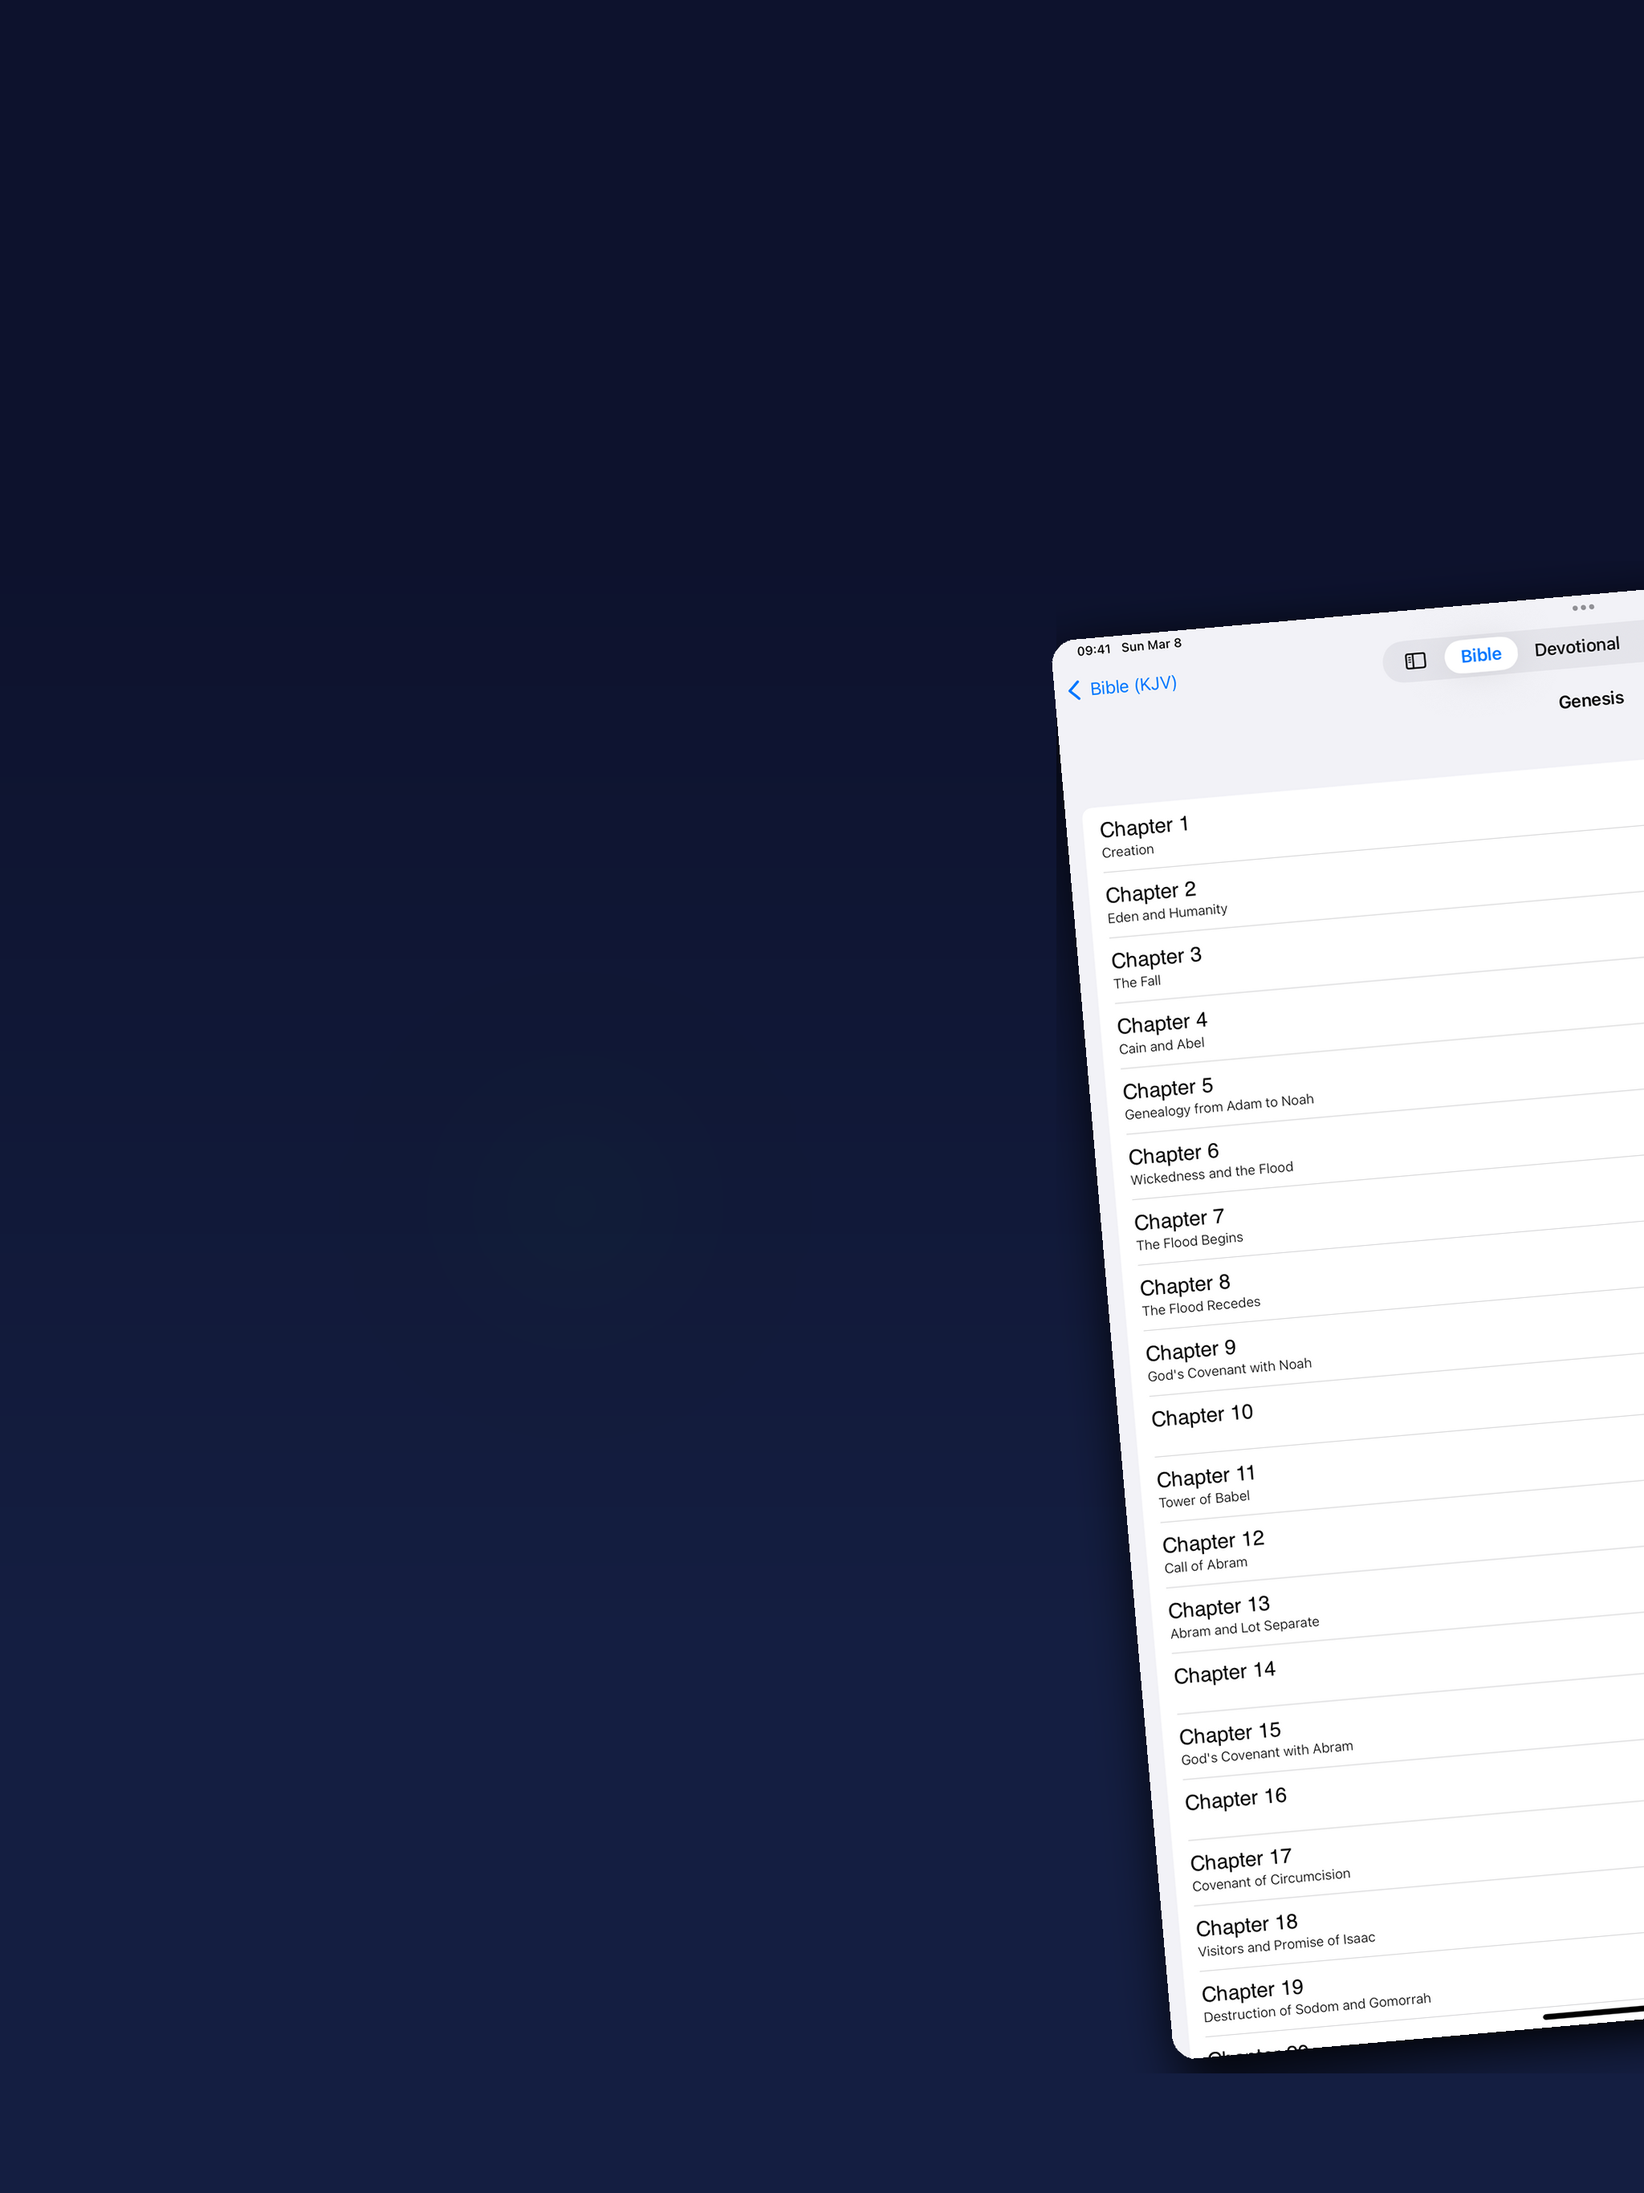
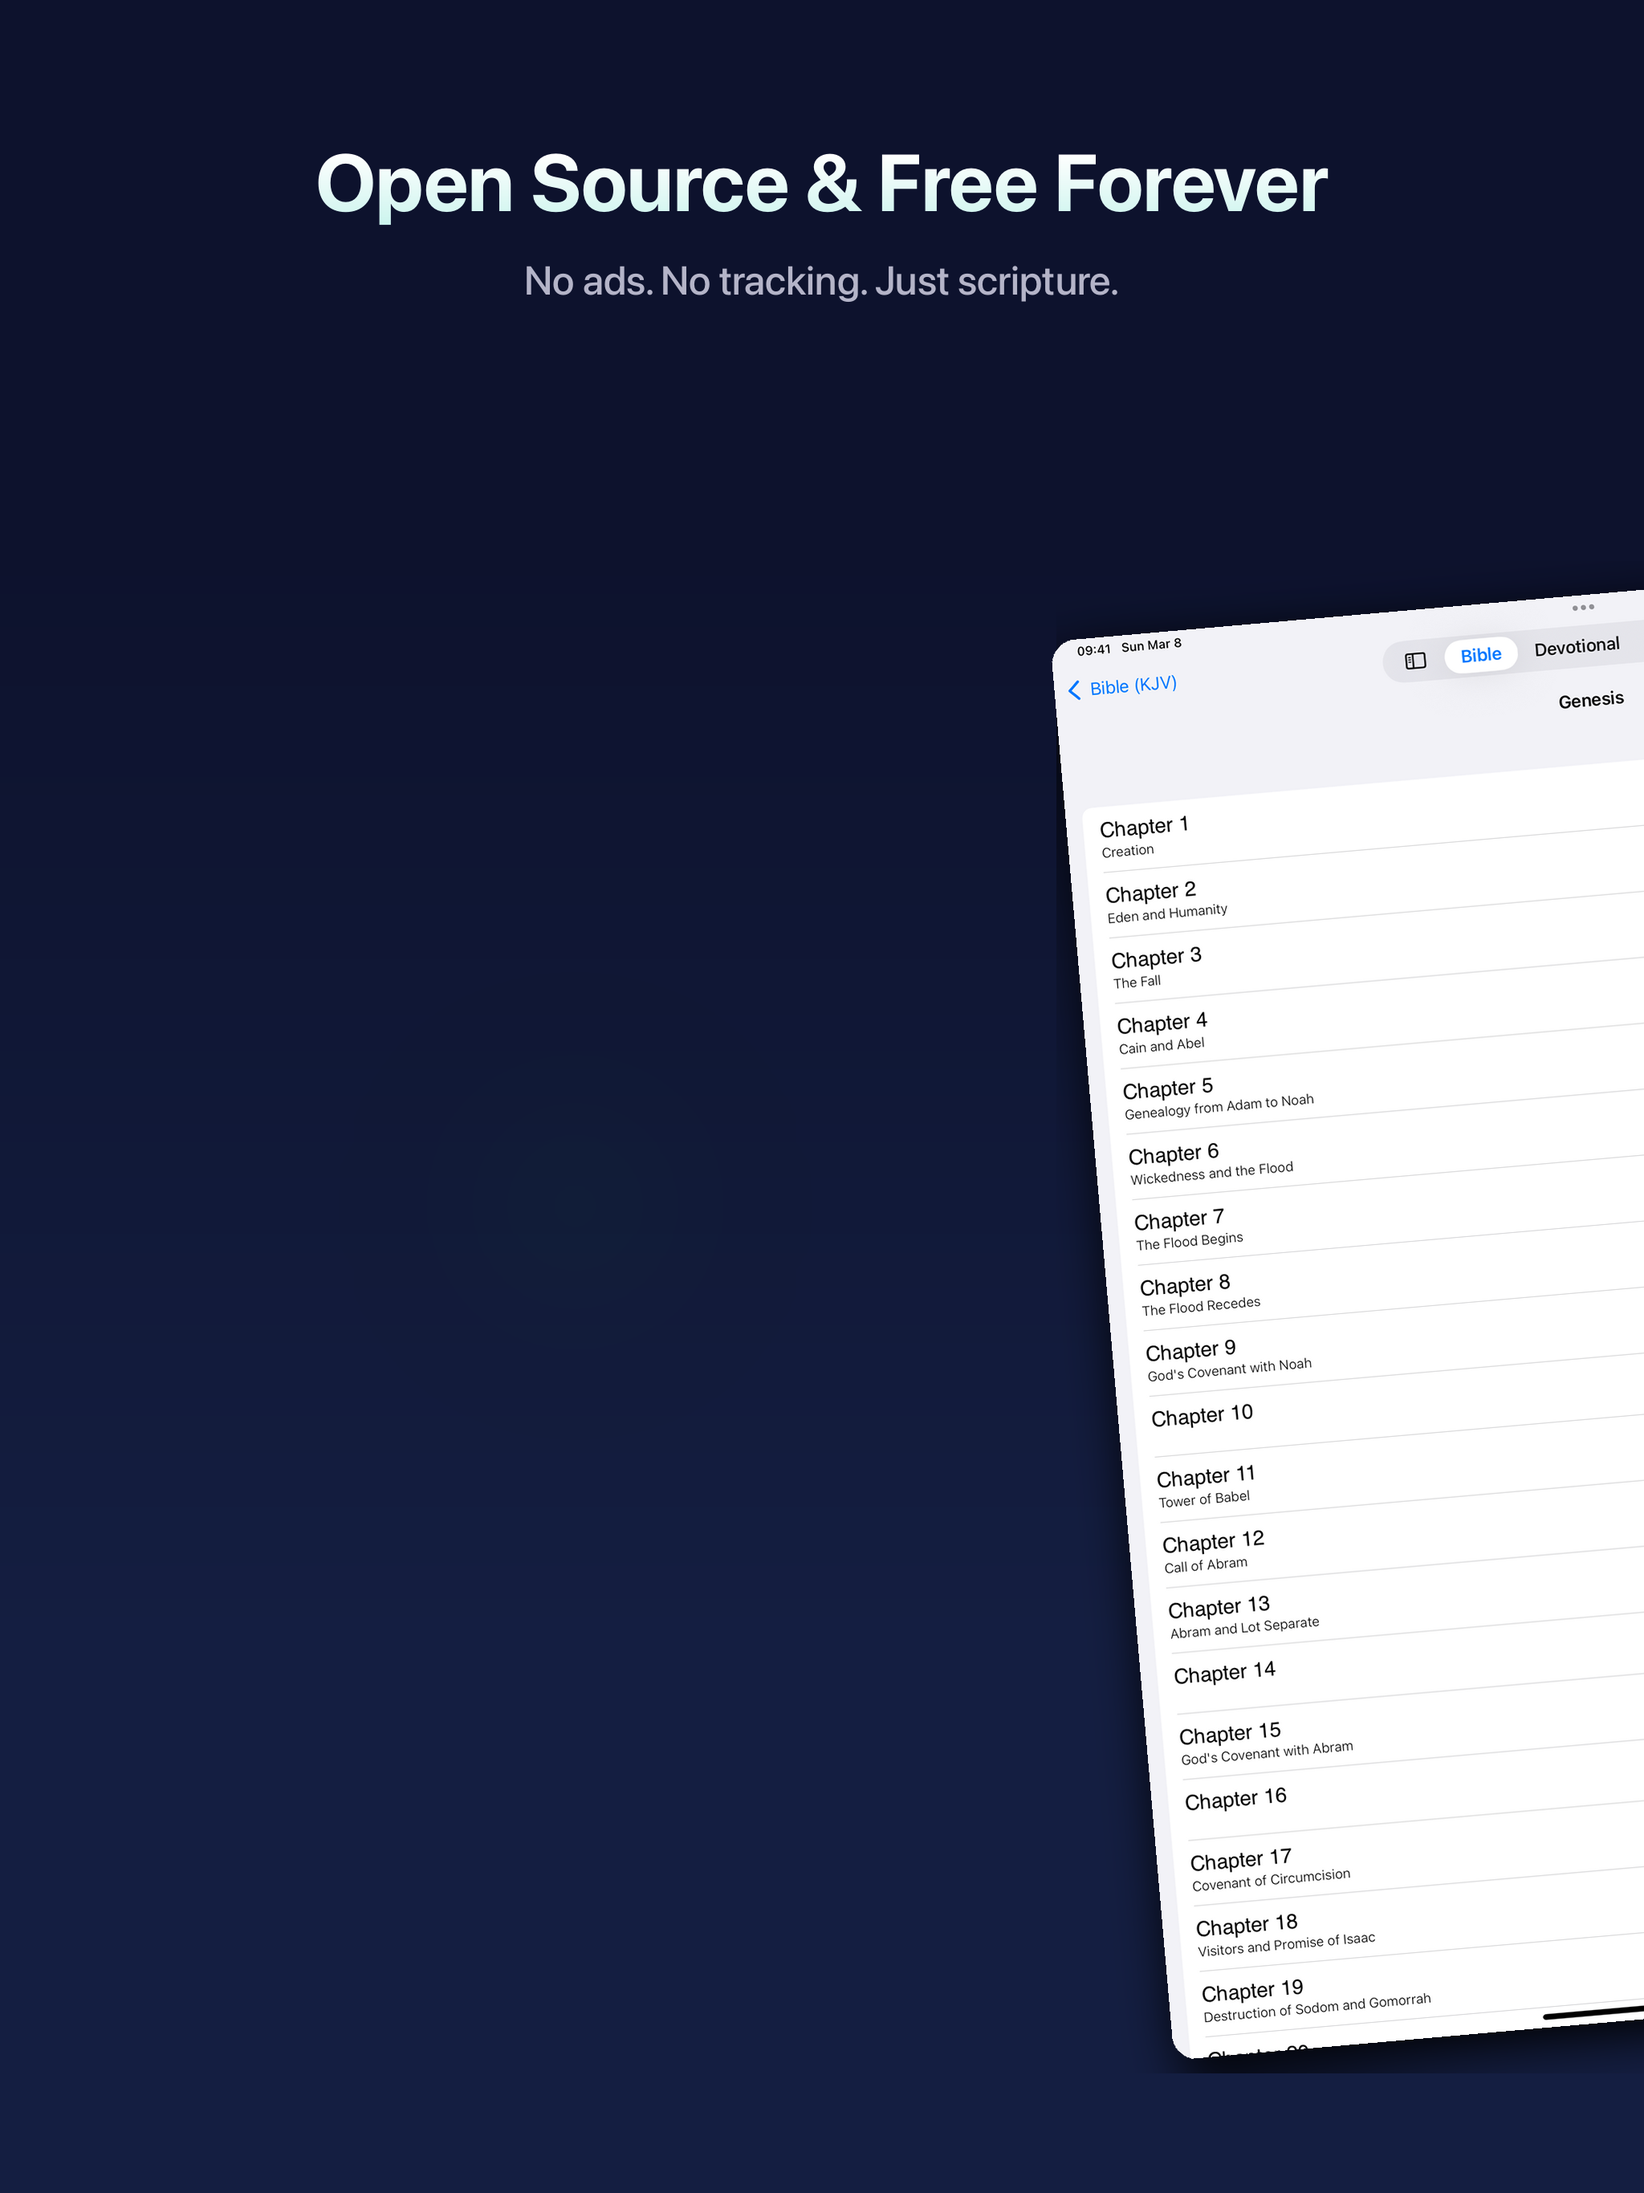
Add trust bridge text to frame 2 of ultimate strip
"Open Source & Free Forever / No ads. No tracking. Just scripture."
fills the empty transition frame between hero and feature showcase.
Applies Power of Free (#113) and Transparency Effect (#85).

Changed region(s): [[0.1875, 0.0622, 0.8125, 0.1245], [0.3125, 0.1245, 0.6875, 0.1556]]

diff --git a/appstore/generate_marketing_screenshots.py b/appstore/generate_marketing_screenshots.py
@@ -922,6 +922,8 @@ ULTIMATE_STRIP = {
     ],
     "intro_headline": "SwiftBible",
     "intro_subtitle": "Open Source Bible App",
+    "bridge_headline": "Open Source & Free Forever",
+    "bridge_subtitle": "No ads. No tracking. Just scripture.",
     "outro_headline": "Download Free",
     "outro_subtitle": "Available on the App Store",
     # Background: deep navy → warm amber (brand palette flow)
@@ -1013,6 +1015,20 @@ def generate_ultimate_strip(device_name, device_config, raw_dir, out_dir):
         canvas, hero_raw, hero_cx, hero_device_y,
         hero_scale, corner_r, canvas_w, hero_shot.get("angle", 0),
     )
+
+    # 4b. Trust bridge text — frame 1 (between hero and first panoramic device)
+    #     Power of Free (#113) + Transparency Effect (#85)
+    bridge_cx = int(canvas_w * 1.5)  # center of frame 1
+    bridge_hl_h = draw_gradient_text_at(
+        canvas, cfg.get("bridge_headline", ""), bridge_cx, text_y,
+        headline_font, (255, 255, 255), TINT_TEAL,
+    )
+    if cfg.get("bridge_subtitle"):
+        draw_text_at(
+            canvas, cfg["bridge_subtitle"], bridge_cx,
+            text_y + bridge_hl_h + text_gap,
+            subtitle_font, SUBTITLE_COLOR,
+        )
 
     # 5. Remaining devices — on cut lines (panoramic)
     for j, shot in enumerate(shots[1:]):
